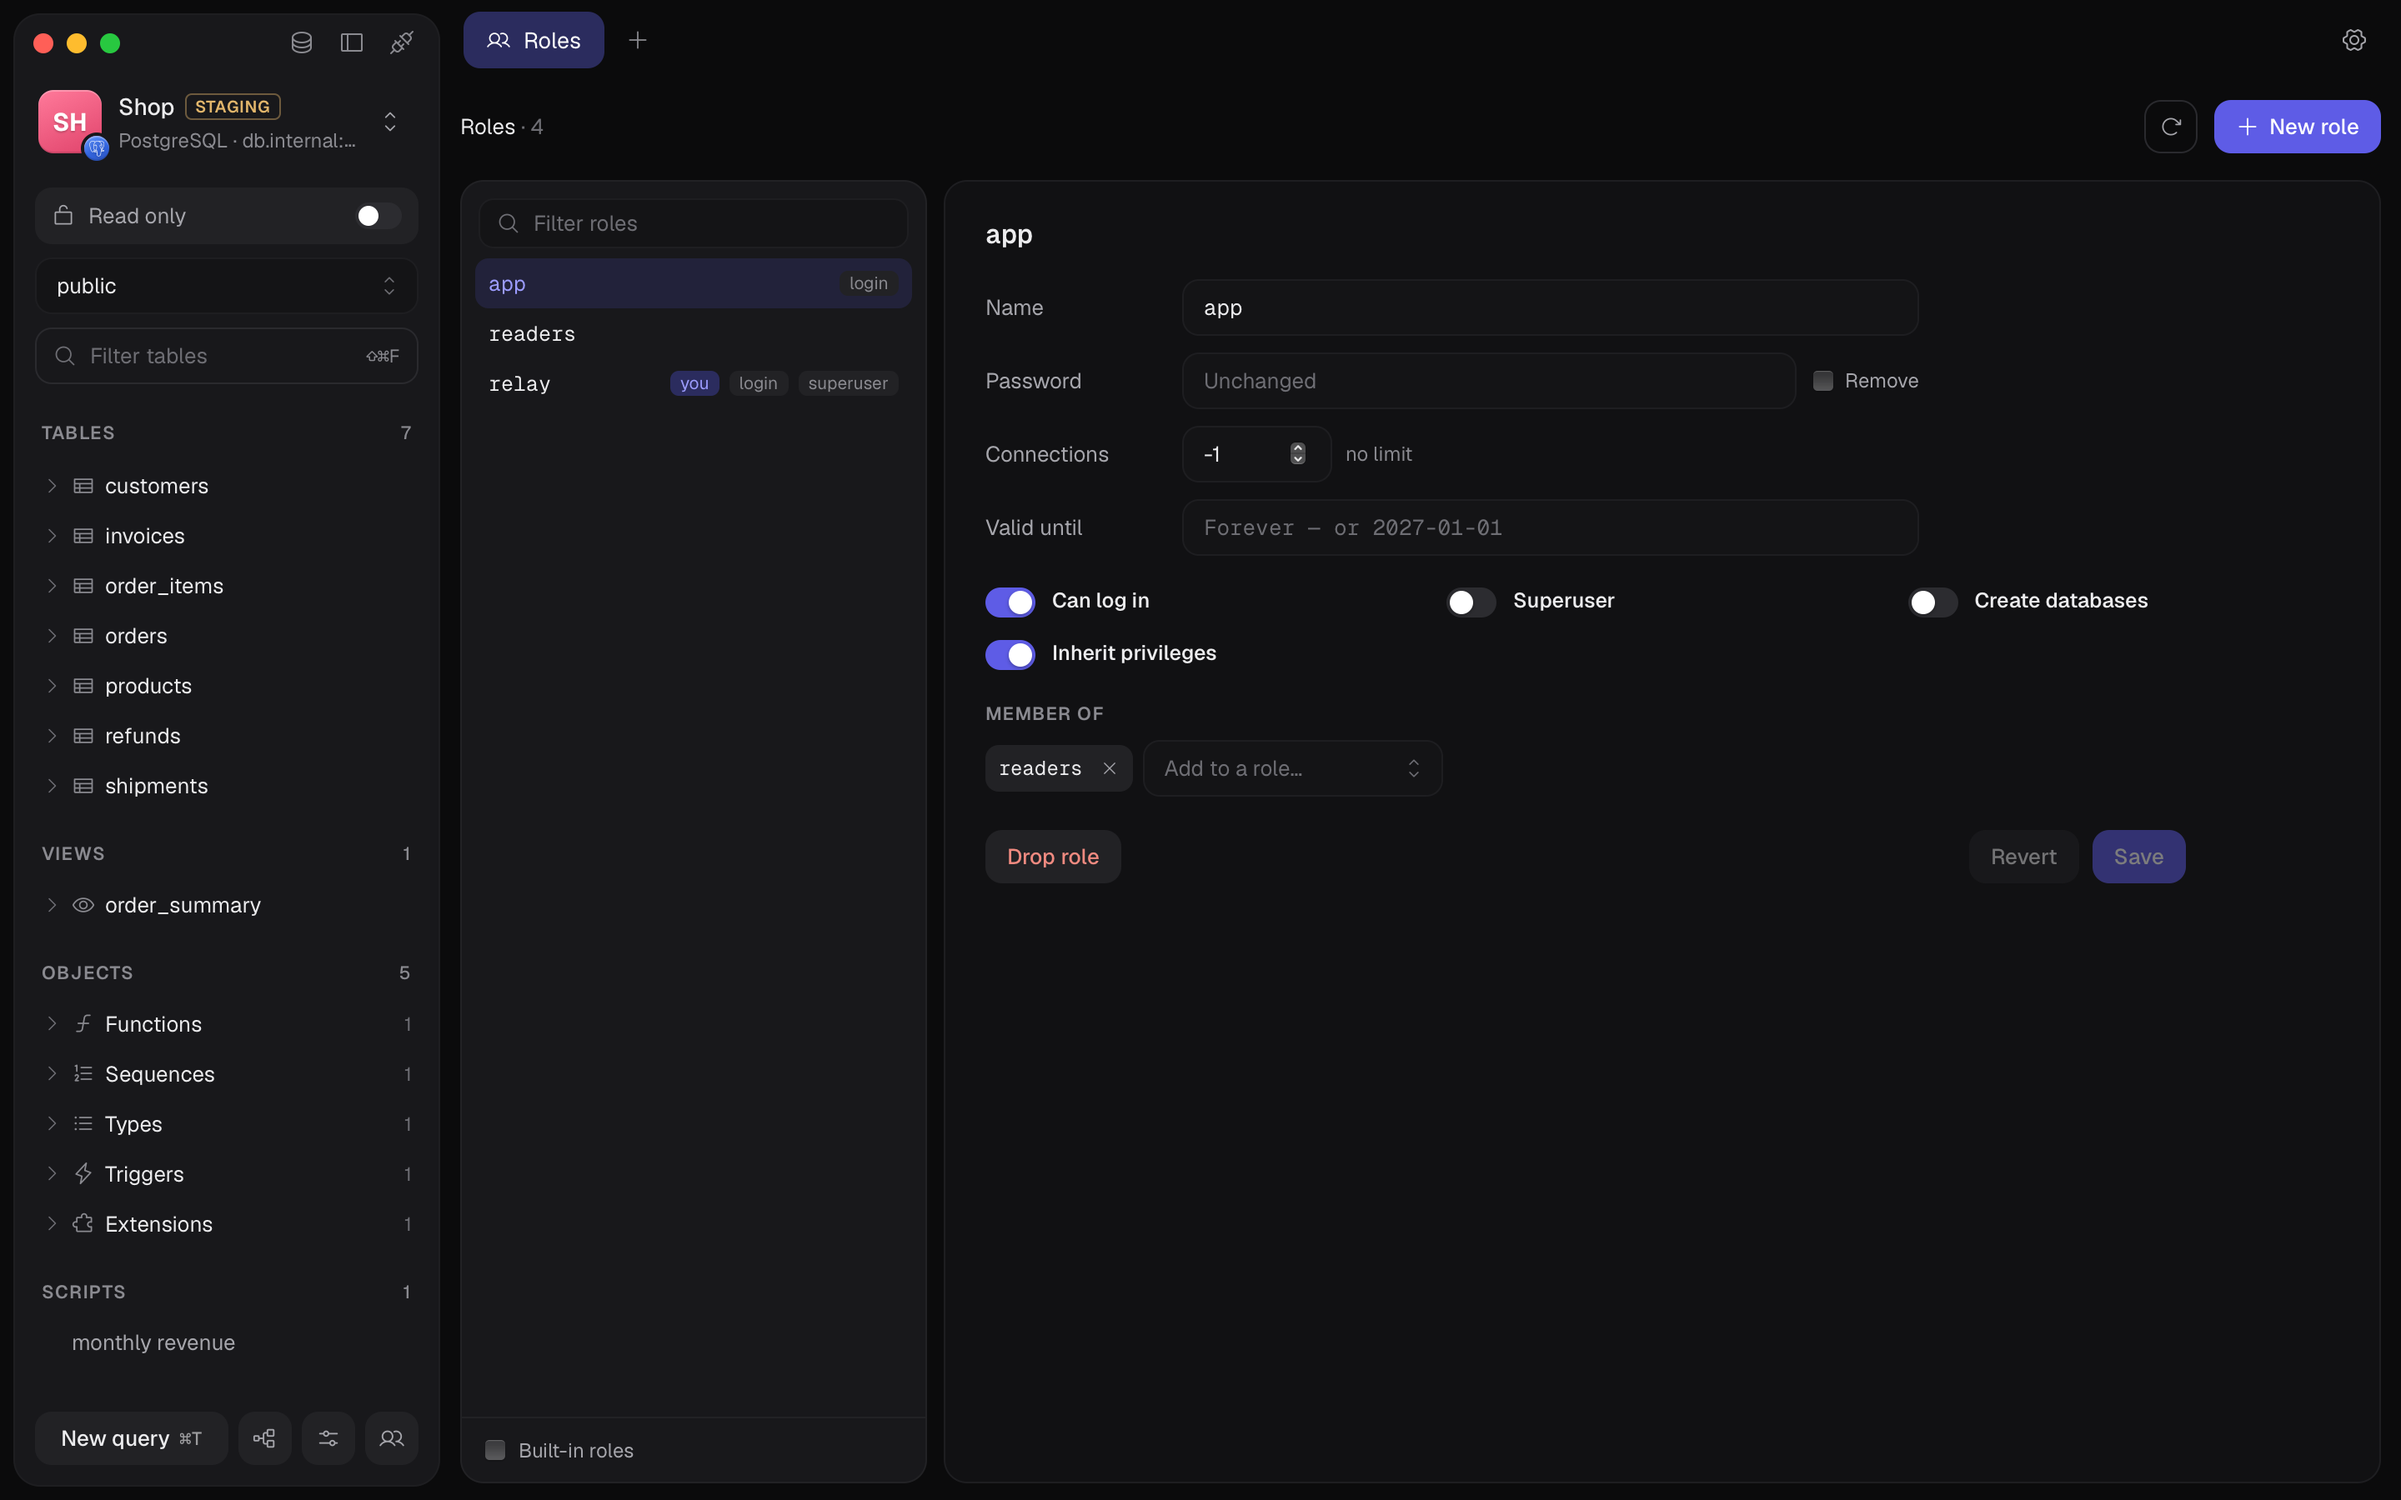
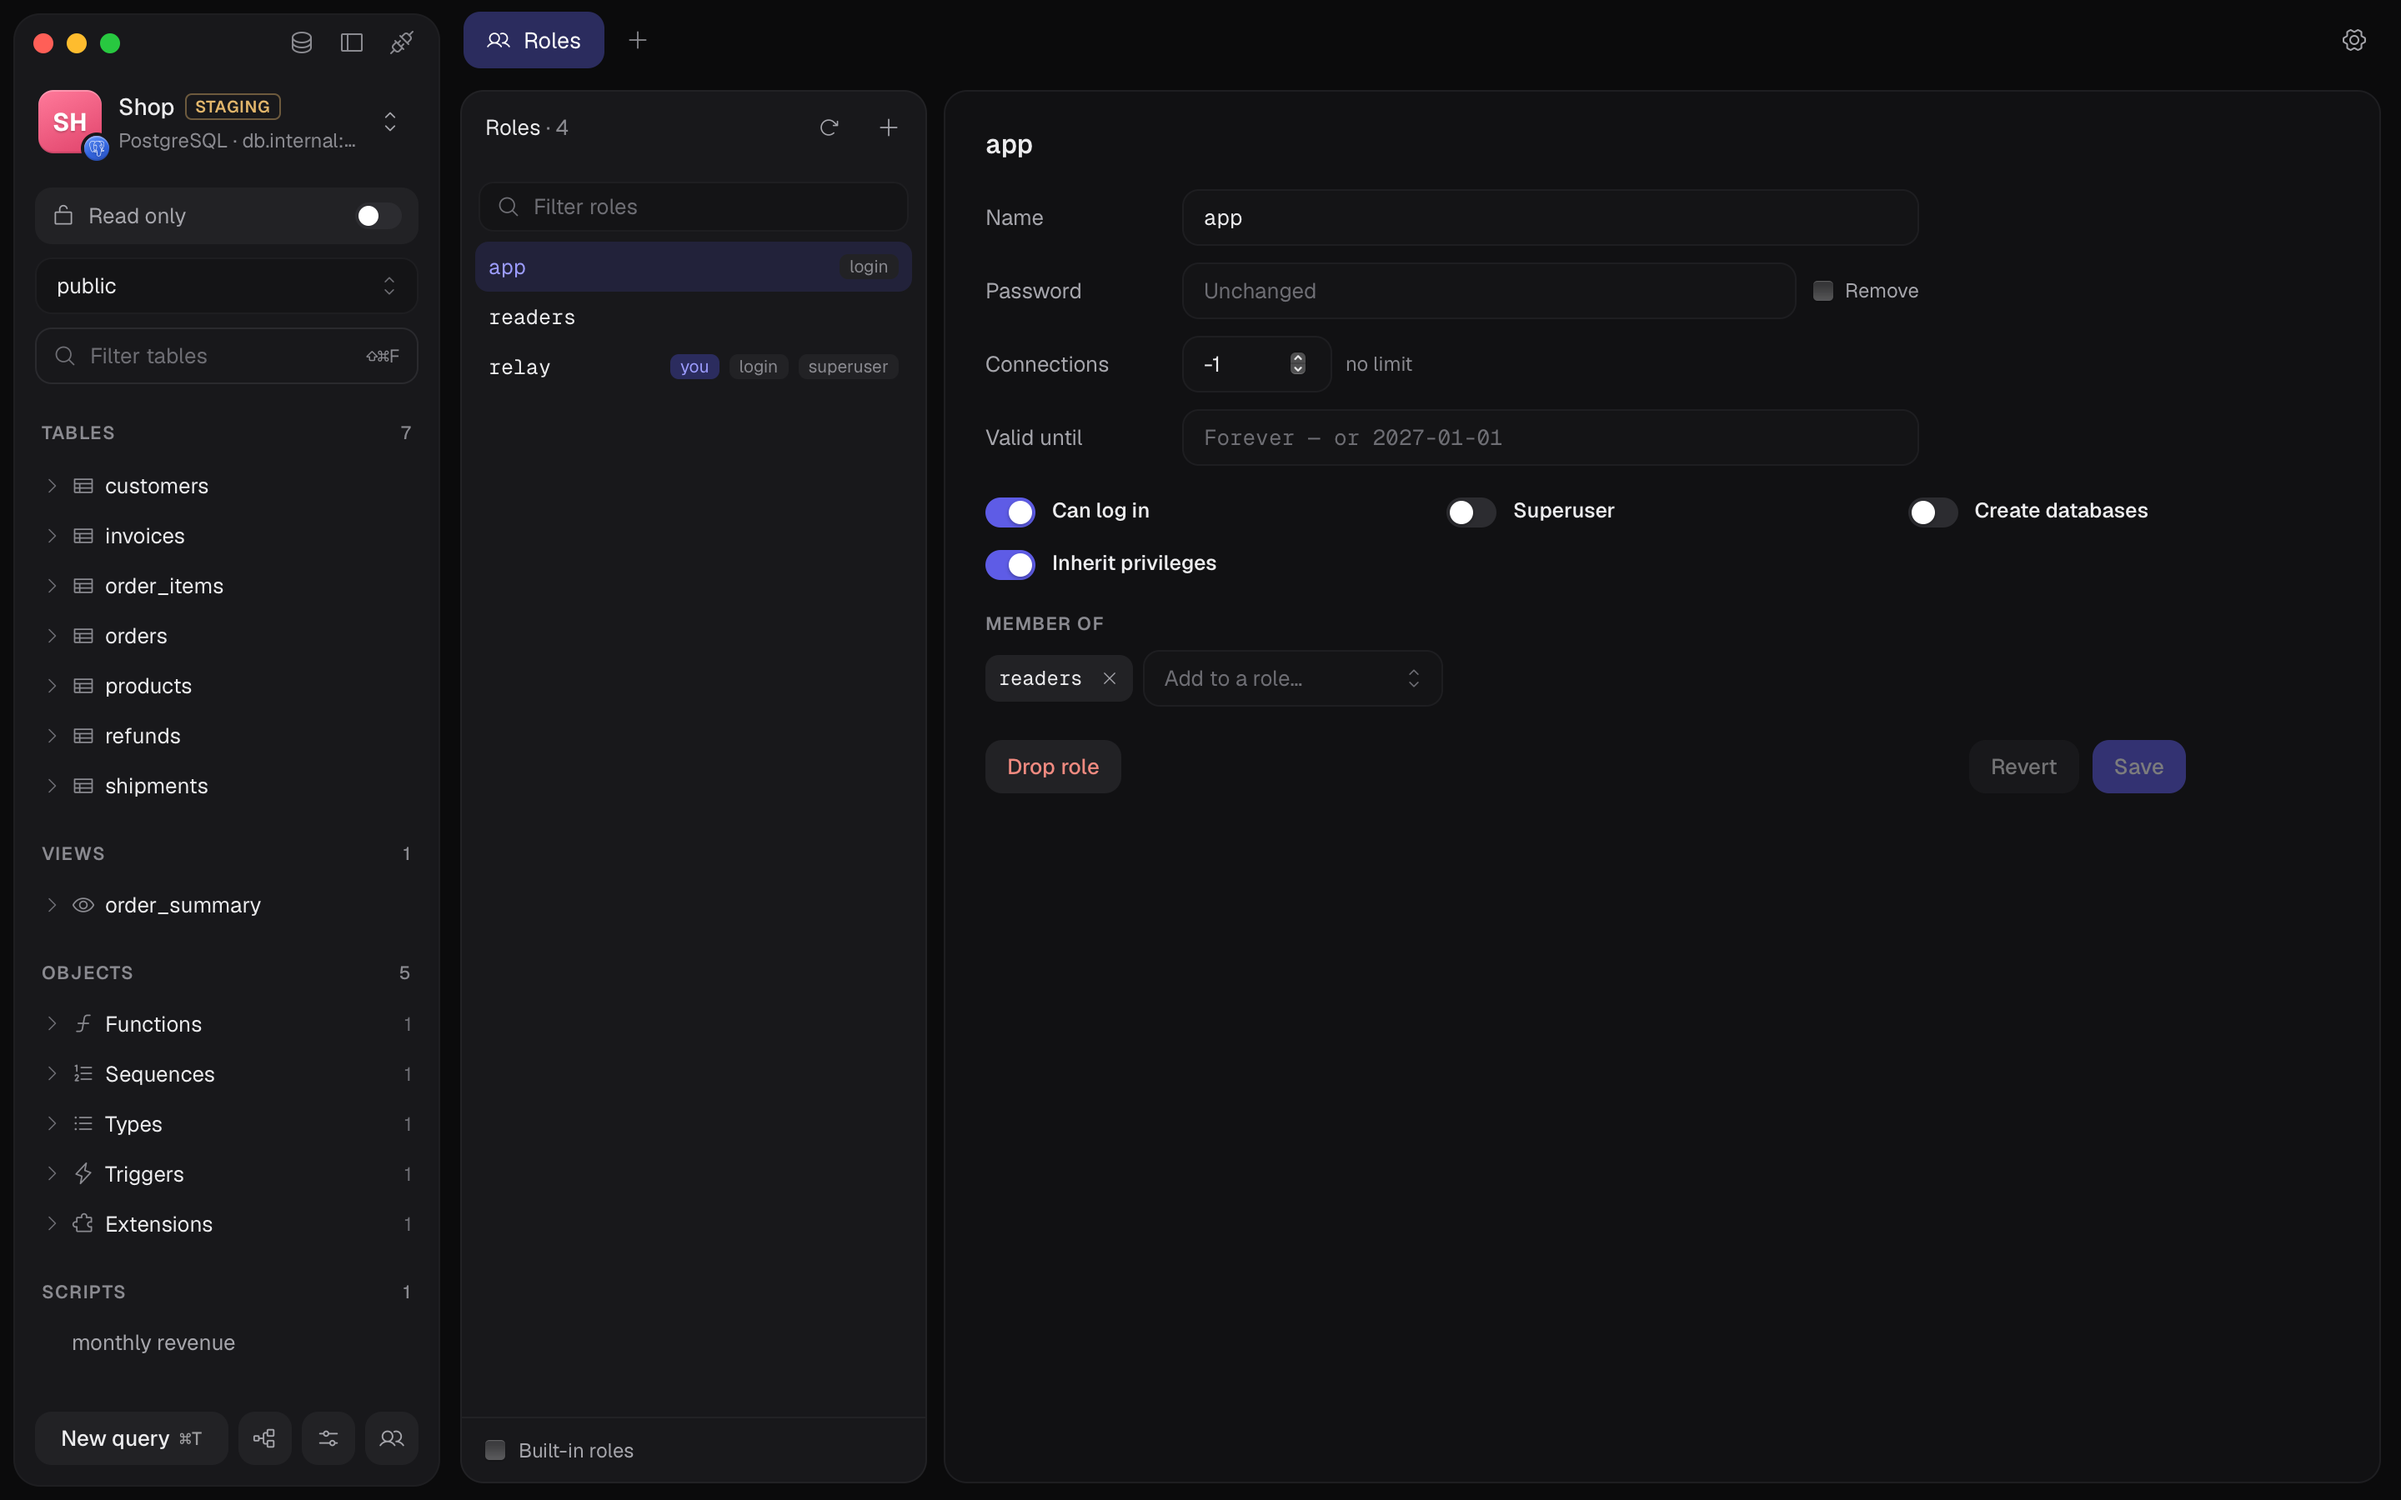
Roles header in its card, a thinner last-run mark, MCP paths per platform
The roles list carries its title and buttons. The SQL editor marks the
last run only beside the line numbers. The MCP command points at the
AppImage itself on Linux (not its temporary mount) and quotes Windows
paths with double quotes; the README says so and loses a line that held
a local path. Screenshots retaken.

diff --git a/apps/desktop/frontend/src/lib/admin/RolesView.svelte b/apps/desktop/frontend/src/lib/admin/RolesView.svelte
@@ -117,13 +117,13 @@
 </script>
 
 <div class="roles">
-  <div class="pane-bar">
-    <span class="pane-title"><strong>{noun[0].toUpperCase()}{noun.slice(1)}s</strong> · {roles.length}</span>
-    <button class="btn outline icon" onclick={() => load()} disabled={loading} title="Reload" aria-label="Reload roles"><Icon name="refresh" size={14} /></button>
-    <button class="btn primary" onclick={startNew} disabled={ws.readOnly} title={newTitle} aria-label="New {noun}"><Icon name="plus" size={14} />New {noun}</button>
-  </div>
   <div class="cols">
   <aside class="list">
+    <div class="pane-head">
+      <span class="pane-title"><strong>{noun[0].toUpperCase()}{noun.slice(1)}s</strong> · {roles.length}</span>
+      <button class="btn ghost icon" onclick={() => load()} disabled={loading} title="Reload" aria-label="Reload roles"><Icon name="refresh" size={13} /></button>
+      <button class="btn ghost icon" onclick={startNew} disabled={ws.readOnly} title={newTitle} aria-label="New {noun}"><Icon name="plus" size={14} /></button>
+    </div>
     <div class="top">
       <TextField icon="search" size="sm" bind:value={query} placeholder="Filter {noun}s" label="Filter {noun}s" />
     </div>
@@ -170,7 +170,8 @@
       </div>
     {:else}
       <div class="empty">
-        <p>Pick a {noun} on the left, or create one with New {noun}.</p>
+        <p>Pick a {noun} on the left, or</p>
+        <button class="btn primary" onclick={startNew} disabled={ws.readOnly} title={newTitle}><Icon name="plus" size={14} />New {noun}</button>
         {#if ws.readOnly}<p class="hint">Read-only is on — turn it off to create {noun}s.</p>{/if}
       </div>
     {/if}
@@ -206,7 +207,7 @@
 
 <style>
   .roles { height: 100%; display: flex; flex-direction: column; min-width: 0; }
-  .cols { flex: 1; min-height: 0; display: flex; gap: 10px; margin-top: 10px; }
+  .cols { flex: 1; min-height: 0; display: flex; gap: 10px; margin-top: 6px; }
   .list { flex: none; width: 280px; display: flex; flex-direction: column; border: 1px solid var(--hover); border-radius: var(--radius-lg); background: var(--elevated); overflow: hidden; }
   .top { padding: 10px 10px 6px; }
   .items { position: relative; flex: 1; min-height: 0; overflow: auto; padding: 0 8px; }
@@ -225,6 +226,7 @@
   .actions { display: flex; gap: 8px; max-width: 720px; margin-top: 20px; }
   .empty { display: flex; flex-direction: column; align-items: flex-start; gap: 10px; color: var(--text-3); font-size: 13px; }
   .empty p { margin: 0; }
+  .empty .btn { align-self: flex-start; }
   .empty .hint { margin: 0; }
   .error { display: flex; gap: 8px; padding: 10px 12px; border-radius: var(--radius); color: var(--danger); background: color-mix(in srgb, var(--danger) 10%, transparent); font-size: 12px; user-select: text; -webkit-user-select: text; }
   .text { margin: 0; color: var(--text-2); line-height: 1.5; }

diff --git a/apps/desktop/frontend/src/lib/ui/editorTheme.ts b/apps/desktop/frontend/src/lib/ui/editorTheme.ts
@@ -27,7 +27,7 @@ export const theme = EditorView.theme({
   '.cm-activeLine': { backgroundColor: 'var(--grid-row-alt)' },
   '.cm-cursor': { borderLeftColor: 'var(--accent)', borderLeftWidth: '2px' },
   '&.cm-focused .cm-selectionBackground, .cm-selectionBackground, ::selection': { backgroundColor: 'var(--editor-selection) !important' },
-  '.cm-gutterElement.cm-ran': { boxShadow: 'inset 2px 0 0 var(--accent)' },
+  '.cm-lineNumbers .cm-gutterElement.cm-ran': { boxShadow: 'inset 2px 0 0 color-mix(in srgb, var(--accent) 70%, transparent)' },
   '.cm-lintRange-error': { backgroundImage: 'none', textDecoration: 'underline wavy var(--danger)', textDecorationThickness: '1.5px', textUnderlineOffset: '3px', textDecorationSkipInk: 'none' },
   '.cm-matchingBracket': { backgroundColor: 'var(--accent-dim)', outline: '1px solid var(--accent)' },
   '.cm-placeholder': { color: 'var(--text-3)' },

diff --git a/apps/desktop/frontend/src/lib/settings/agents.ts b/apps/desktop/frontend/src/lib/settings/agents.ts
@@ -14,7 +14,9 @@ export function mcpArgs(o: { write: boolean; create: boolean }): string[] {
 }
 
 export function shellQuote(s: string): string {
-  return /^[\w@%+=:,./-]+$/.test(s) ? s : `'${s.replace(/'/g, `'\\''`)}'`;
+  if (/^[\w@%+=:,./-]+$/.test(s)) return s;
+  if (/^[A-Za-z]:\\/.test(s)) return `"${s}"`;
+  return `'${s.replace(/'/g, `'\\''`)}'`;
 }
 
 function serversJSON(exe: string, args: string[]): string {

diff --git a/apps/desktop/frontend/src/lib/settings/agents.test.ts b/apps/desktop/frontend/src/lib/settings/agents.test.ts
@@ -22,5 +22,6 @@ describe('agent setup', () => {
     expect(shellQuote(exe)).toBe(exe);
     expect(shellQuote('/Users/a b/plugboard')).toBe(`'/Users/a b/plugboard'`);
     expect(shellQuote("/x/it's")).toBe(`'/x/it'\\''s'`);
+    expect(shellQuote('C:\\Users\\Ann Lee\\AppData\\Local\\Programs\\Plugboard\\plugboard.exe')).toBe('"C:\\Users\\Ann Lee\\AppData\\Local\\Programs\\Plugboard\\plugboard.exe"');
   });
 });

diff --git a/apps/desktop/frontend/e2e/screenshots.spec.ts b/apps/desktop/frontend/e2e/screenshots.spec.ts
@@ -76,6 +76,7 @@ test('query', async ({ page }) => {
   await page.keyboard.press('End');
   await page.keyboard.press('ControlOrMeta+Enter');
   await expect(page.getByRole('grid').getByText('1284390.50')).toBeVisible();
+  await page.keyboard.press('ArrowLeft');
   await snap(page, 'query', ['dark', 'light']);
 });
 

diff --git a/apps/desktop/internal/api/mcp.go b/apps/desktop/internal/api/mcp.go
@@ -6,6 +6,9 @@ import (
 )
 
 func (a *App) MCPExecutable() string {
+	if appImage := os.Getenv("APPIMAGE"); appImage != "" {
+		return appImage
+	}
 	exe, err := os.Executable()
 	if err != nil {
 		return "plugboard"

diff --git a/README.md b/README.md
@@ -211,8 +211,7 @@ Plugboard is also an MCP server. Add it to Claude Code, Codex or Cursor with one
 
 **AI agents (MCP)**
 
-- `claude mcp add plugboard -- /Applications/Plugboard.app/Contents/MacOS/plugboard mcp` (Settings ▸ AI agents shows the exact command for each client).
-- `codex mcp add plugboard -- /Users/evgn/Documents/plugboard/apps/desktop/build/bin/Plugboard.app/Contents/MacOS/plugboard mcp --create` (Settings ▸ AI agents shows the exact command for each client).
+- Add it with one command — Settings ▸ AI agents shows the exact one for Claude Code, Codex and Cursor on your system. On macOS: `claude mcp add plugboard -- /Applications/Plugboard.app/Contents/MacOS/plugboard mcp`; on Windows and Linux it points at the installed `plugboard.exe` or the AppImage.
 - Agents never see a password: they ask Plugboard, which connects with your saved connections, Keychain and SSH tunnels.
 - Nothing is shared until you turn on _AI agents (MCP)_ for a connection. Sessions are read-only unless you start it with `--write`, and Production is read-only for agents no matter what.
 - Every call is logged to `logs/mcp.log` in the profile folder.
